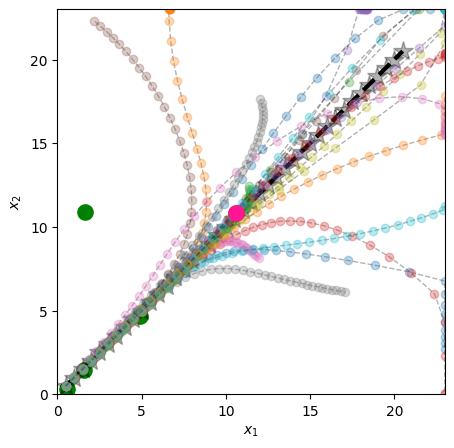
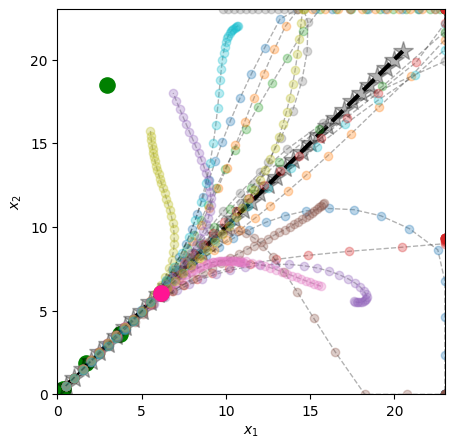
is this more efficient?

diff --git a/project_name/main_test.py b/project_name/main_test.py
@@ -200,12 +200,16 @@ def return_optimised_posterior(data: gpjax.Dataset, prior: gpjax.gps.Prior, key)
 
     return opt_posterior
 
-def sample_and_optimize_posterior(optimized_posteriors, D, key, lower_bound, upper_bound, num_samples=20):
+def sample_and_optimize_posterior(optimized_posteriors, D, key, lower_bound, upper_bound, num_samples, num_initial_sample_points):
     def apply_fn(sample_func, x_data):
         return sample_func(x_data)
 
     def create_path(xs, ys):
         return ExPath(jnp.squeeze(xs, axis=-2), jnp.squeeze(ys, axis=-2))
+
+    key, _key = jr.split(key)
+    initial_sample_points = jr.uniform(_key, shape=(num_initial_sample_points, lower_bound.shape[0]), dtype=jnp.float64,
+                                       minval=lower_bound, maxval=upper_bound)
 
     def outer_loop(key):
         sample_func_list = []
@@ -235,9 +239,16 @@ def sample_and_optimize_posterior(optimized_posteriors, D, key, lower_bound, upp
         sample_stds = []
         for gp_idx, posterior in enumerate(optimized_posteriors):
             comb_x = jnp.concatenate((D.X, exe_path.x))
-            comb_y = jnp.concatenate((jnp.expand_dims(D.y[:, gp_idx], axis=-1), exe_path.y))
+            comb_y = jnp.concatenate((jnp.expand_dims(D.y[:, gp_idx], axis=-1), jnp.expand_dims(exe_path.y[:, gp_idx], axis=-1)))
 
-        return all_xs, all_ys, exe_path
+            data = gpjax.Dataset(X=comb_x, y=comb_y)
+            latent_dist = posterior.predict(initial_sample_points, train_data=data)
+            predictive_dist = posterior.likelihood(latent_dist)
+
+            sample_mus.append(predictive_dist.mean())  # TODO should this be predictive or should it be just posterior, if latter then do we need the points?
+            sample_stds.append(predictive_dist.stddev())
+
+        return all_xs, all_ys, exe_path, jnp.array(sample_mus), jnp.array(sample_stds)
 
     # Create initial state for all samples
     init_x = jnp.array([[0.5, 0.5]])
@@ -245,34 +256,35 @@ def sample_and_optimize_posterior(optimized_posteriors, D, key, lower_bound, upp
 
     key, _key = jrandom.split(key)
     batch_key = jrandom.split(key, num_samples)
-    all_xs, all_ys, exe_path = jax.vmap(outer_loop)(batch_key)
+    all_xs, all_ys, exe_path, sample_mus, sample_stds = jax.vmap(outer_loop)(batch_key)
 
-    return exe_path
+    return exe_path, initial_sample_points, sample_mus, sample_stds
 
-def optimise_sample(optimized_posteriors, D, key, lower_bound, upper_bound, exe_path_x, exe_path_y, num_initial_sample_points):
-    key, _key = jr.split(key)
-    initial_sample_points = jr.uniform(_key, shape=(num_initial_sample_points, lower_bound.shape[0]), dtype=jnp.float64,
-                                       minval=lower_bound, maxval=upper_bound)
+# def optimise_sample(optimized_posteriors, D, key, lower_bound, upper_bound, exe_path_x, exe_path_y, num_initial_sample_points):
+def optimise_sample(optimized_posteriors, D, initial_sample_points, sample_mus, sample_stds):
+    # key, _key = jr.split(key)
+    # initial_sample_points = jr.uniform(_key, shape=(num_initial_sample_points, lower_bound.shape[0]), dtype=jnp.float64,
+    #                                    minval=lower_bound, maxval=upper_bound)
 
     # the acquisting function thing is here
     predictive_mus = []
     predictive_stds = []
-    sample_mus = []
-    sample_stds = []
-
-    # TODO can we vmap this?
-    def test_vmap(collected_data_x, collected_data_y, exe_path_x, exe_path_y, posterior, initial_sample_points):
-        comb_x = jnp.concatenate((collected_data_x, exe_path_x))
-        comb_y = jnp.concatenate((collected_data_y, exe_path_y))
-
-        data = gpjax.Dataset(X=comb_x, y=comb_y)
-        latent_dist = posterior.predict(initial_sample_points, train_data=data)
-        predictive_dist = posterior.likelihood(latent_dist)
-
-        sample_mean = predictive_dist.mean()  # TODO should this be predictive or should it be just posterior, if latter then do we need the points?
-        sample_std = predictive_dist.stddev()
-
-        return sample_mean, sample_std
+    # sample_mus = []
+    # sample_stds = []
+    #
+    # # TODO can we vmap this?
+    # def test_vmap(collected_data_x, collected_data_y, exe_path_x, exe_path_y, posterior, initial_sample_points):
+    #     comb_x = jnp.concatenate((collected_data_x, exe_path_x))
+    #     comb_y = jnp.concatenate((collected_data_y, exe_path_y))
+    #
+    #     data = gpjax.Dataset(X=comb_x, y=comb_y)
+    #     latent_dist = posterior.predict(initial_sample_points, train_data=data)
+    #     predictive_dist = posterior.likelihood(latent_dist)
+    #
+    #     sample_mean = predictive_dist.mean()  # TODO should this be predictive or should it be just posterior, if latter then do we need the points?
+    #     sample_std = predictive_dist.stddev()
+    #
+    #     return sample_mean, sample_std
 
     for gp_idx, posterior in enumerate(optimized_posteriors):
         data = gpjax.Dataset(X=D.X, y=jnp.expand_dims(D.y[:, gp_idx], axis=-1))
@@ -284,17 +296,17 @@ def optimise_sample(optimized_posteriors, D, key, lower_bound, upper_bound, exe_
         predictive_mus.append(predictive_mean)
         predictive_stds.append(predictive_std)
 
-        sample_mean, sample_std = jax.vmap(test_vmap, in_axes=(None, None, 0, 0, None, None))(D.X, jnp.expand_dims(
-            D.y[:, gp_idx], axis=-1), exe_path_x, jnp.expand_dims(exe_path_y[:, :, gp_idx], axis=-1), posterior,
-                                                                                              initial_sample_points)
-        sample_mus.append(sample_mean)
-        sample_stds.append(sample_std)
+        # sample_mean, sample_std = jax.vmap(test_vmap, in_axes=(None, None, 0, 0, None, None))(D.X, jnp.expand_dims(
+        #     D.y[:, gp_idx], axis=-1), exe_path_x, jnp.expand_dims(exe_path_y[:, :, gp_idx], axis=-1), posterior,
+        #                                                                                       initial_sample_points)
+        # sample_mus.append(sample_mean)
+        # sample_stds.append(sample_std)
 
     def acq_exe_normal(predictive, sample):
         def entropy_given_normal_std_list(std_list):
             return jnp.log(std_list) + jnp.log(jnp.sqrt(2 * jnp.pi)) + 0.5  # TODO check if correct std or var
         h_post = jnp.sum(entropy_given_normal_std_list(jnp.array(predictive)), axis=0)
-        h_sample = jnp.mean(jnp.sum(entropy_given_normal_std_list(jnp.array(sample)), axis=0), axis=0)
+        h_sample = jnp.mean(jnp.sum(entropy_given_normal_std_list(sample), axis=1), axis=0)
         acq_exe = h_post - h_sample
 
         return acq_exe
@@ -320,6 +332,8 @@ lower_bound = jnp.array([domain[0][0], domain[1][0]])
 upper_bound = jnp.array([domain[0][1], domain[1][1]])
 n_init_data = 1
 bo_iters = 25
+num_samples = 20
+num_initial_sample_points = 1000
 
 init_x = jnp.array(unif_random_sample_domain(domain, n_init_data))
 init_y = jnp.array([step_northwest(xi) for xi in init_x])
@@ -342,11 +356,10 @@ for i in range(bo_iters):
     # Sample from posteriors and find minimizer
     key, _key = jr.split(key)
     ind_time = time.time()
-    exe_path = sample_and_optimize_posterior(optimized_posteriors, D, _key, lower_bound, upper_bound)  # TODO is it potentialy quicker and more efficient to just sample from the posterior likelihood and vmap across this?
+    exe_path, initial_sample_points, sample_mus, sample_stds = sample_and_optimize_posterior(optimized_posteriors, D, _key, lower_bound, upper_bound, num_samples, num_initial_sample_points)  # TODO is it potentialy quicker and more efficient to just sample from the posterior likelihood and vmap across this?
     print(f"{time.time() - ind_time} - Exe path time taken")
     ind_time = time.time()
-    x_star = optimise_sample(optimized_posteriors, D, key, lower_bound, upper_bound, exe_path.x, exe_path.y,
-                                  num_initial_sample_points=1000)
+    x_star = optimise_sample(optimized_posteriors, D, initial_sample_points, sample_mus, sample_stds)
     print(f"{time.time() - ind_time} - Optimisation time taken")
     y_star = f([x_star[0], x_star[1]])
     print(f"BO Iteration: {i + 1}, Queried Point: {x_star}, Black-Box Function Value:" f" {y_star}")
